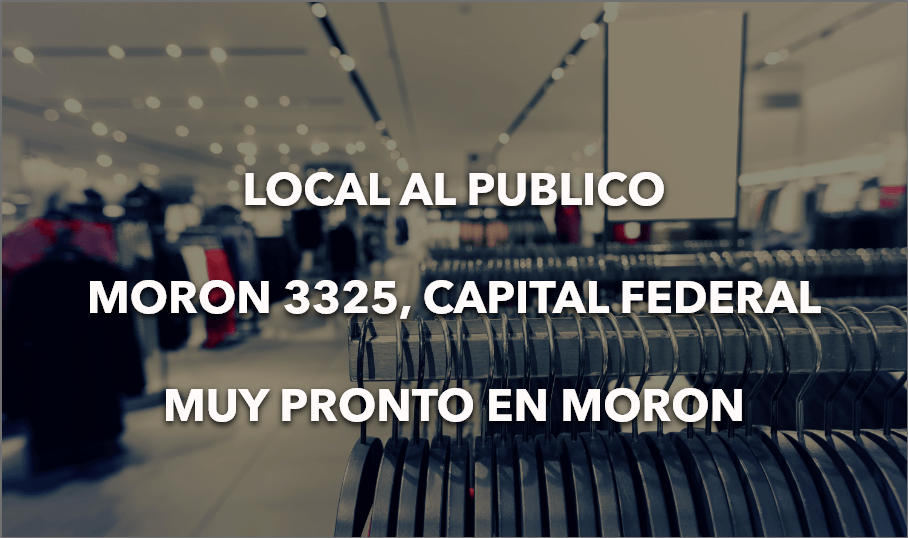
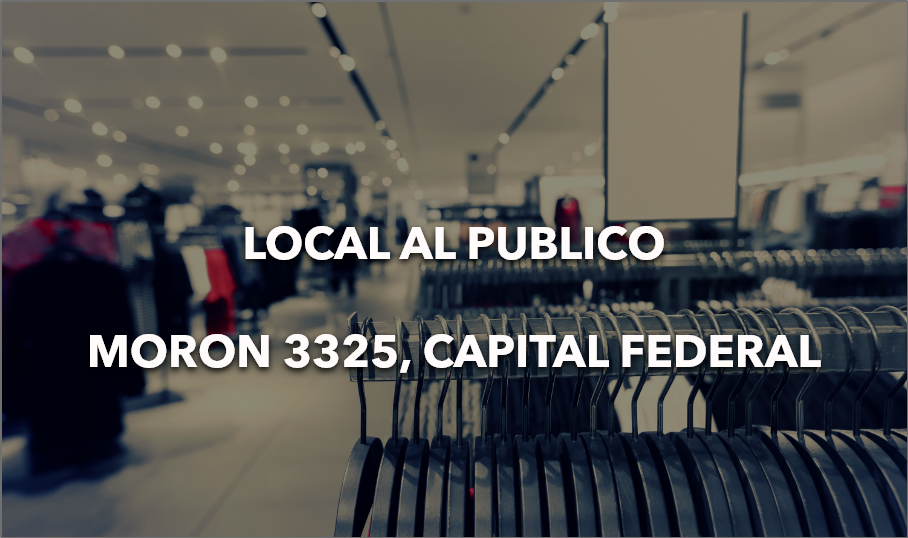
Fix address on image and Fix paginator

Changed region(s): [[0.0925, 0.2974, 0.9251, 0.5948], [0.0925, 0.6245, 0.9251, 0.803]]

diff --git a/galeria.html b/galeria.html
@@ -173,7 +173,6 @@
                 <li class="items"><img src="img/modelos/173.jpg"> <span>ART. 173</span></li>
                 <li class="items"><img src="img/modelos/174.jpg"> <span>ART. 174</span></li>
                 <li class="items"><img src="img/modelos/p300.jpg"> <span>ART. 300</span></li>
-                <li class="items"><img src="img/modelos/p301.jpg"> <span>ART. 301</span></li>
                 <li class="items"><img src="img/modelos/p302.jpg"> <span>ART. 302</span></li>
                 <li class="items"><img src="img/modelos/p303.jpg"> <span>ART. 303</span></li>
                 <li class="items"><img src="img/modelos/p304.jpg"> <span>ART. 304</span></li>

diff --git a/js/scripts.js b/js/scripts.js
@@ -193,7 +193,7 @@ $(document).ready(function () {
 
     $('#easyPaginate').easyPaginate({
         paginateElement: 'li',
-        elementsPerPage: 9,
+        elementsPerPage: 21,
         effect: 'fade'
     });
 
